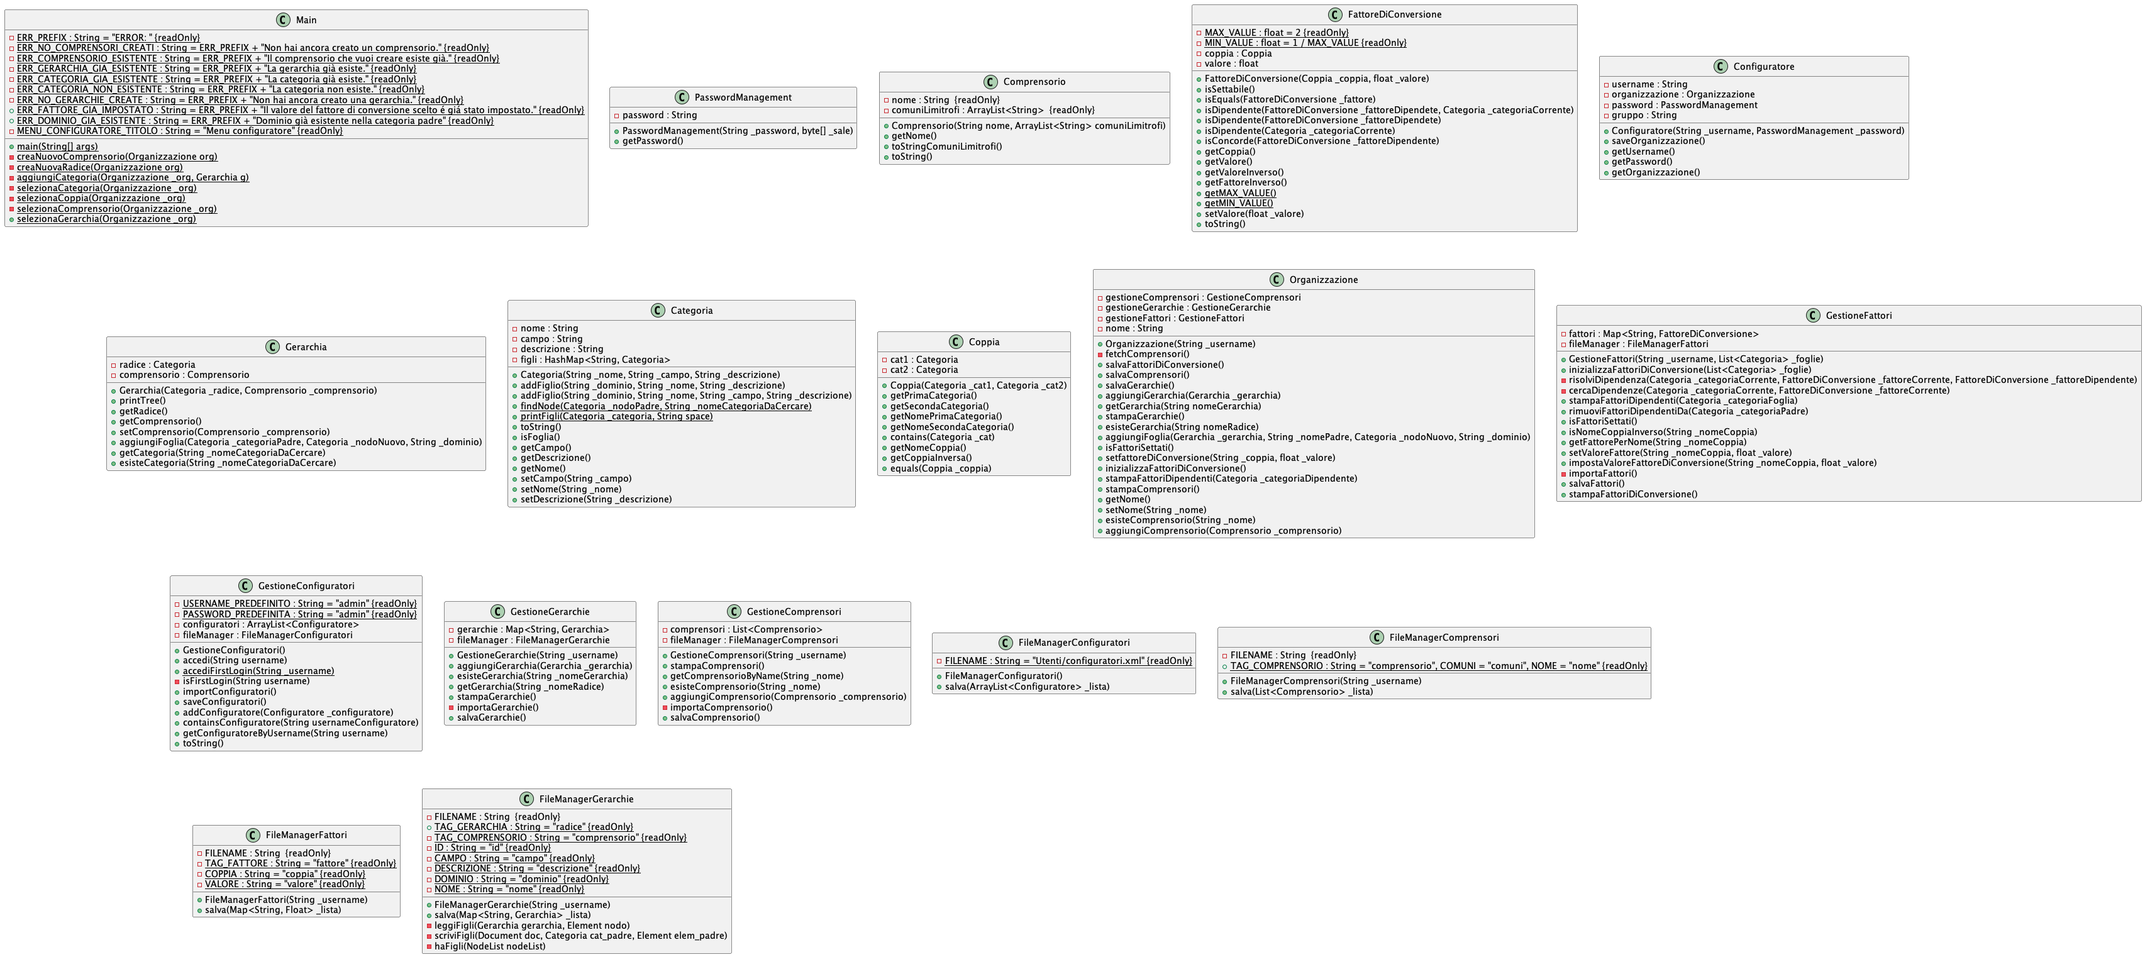
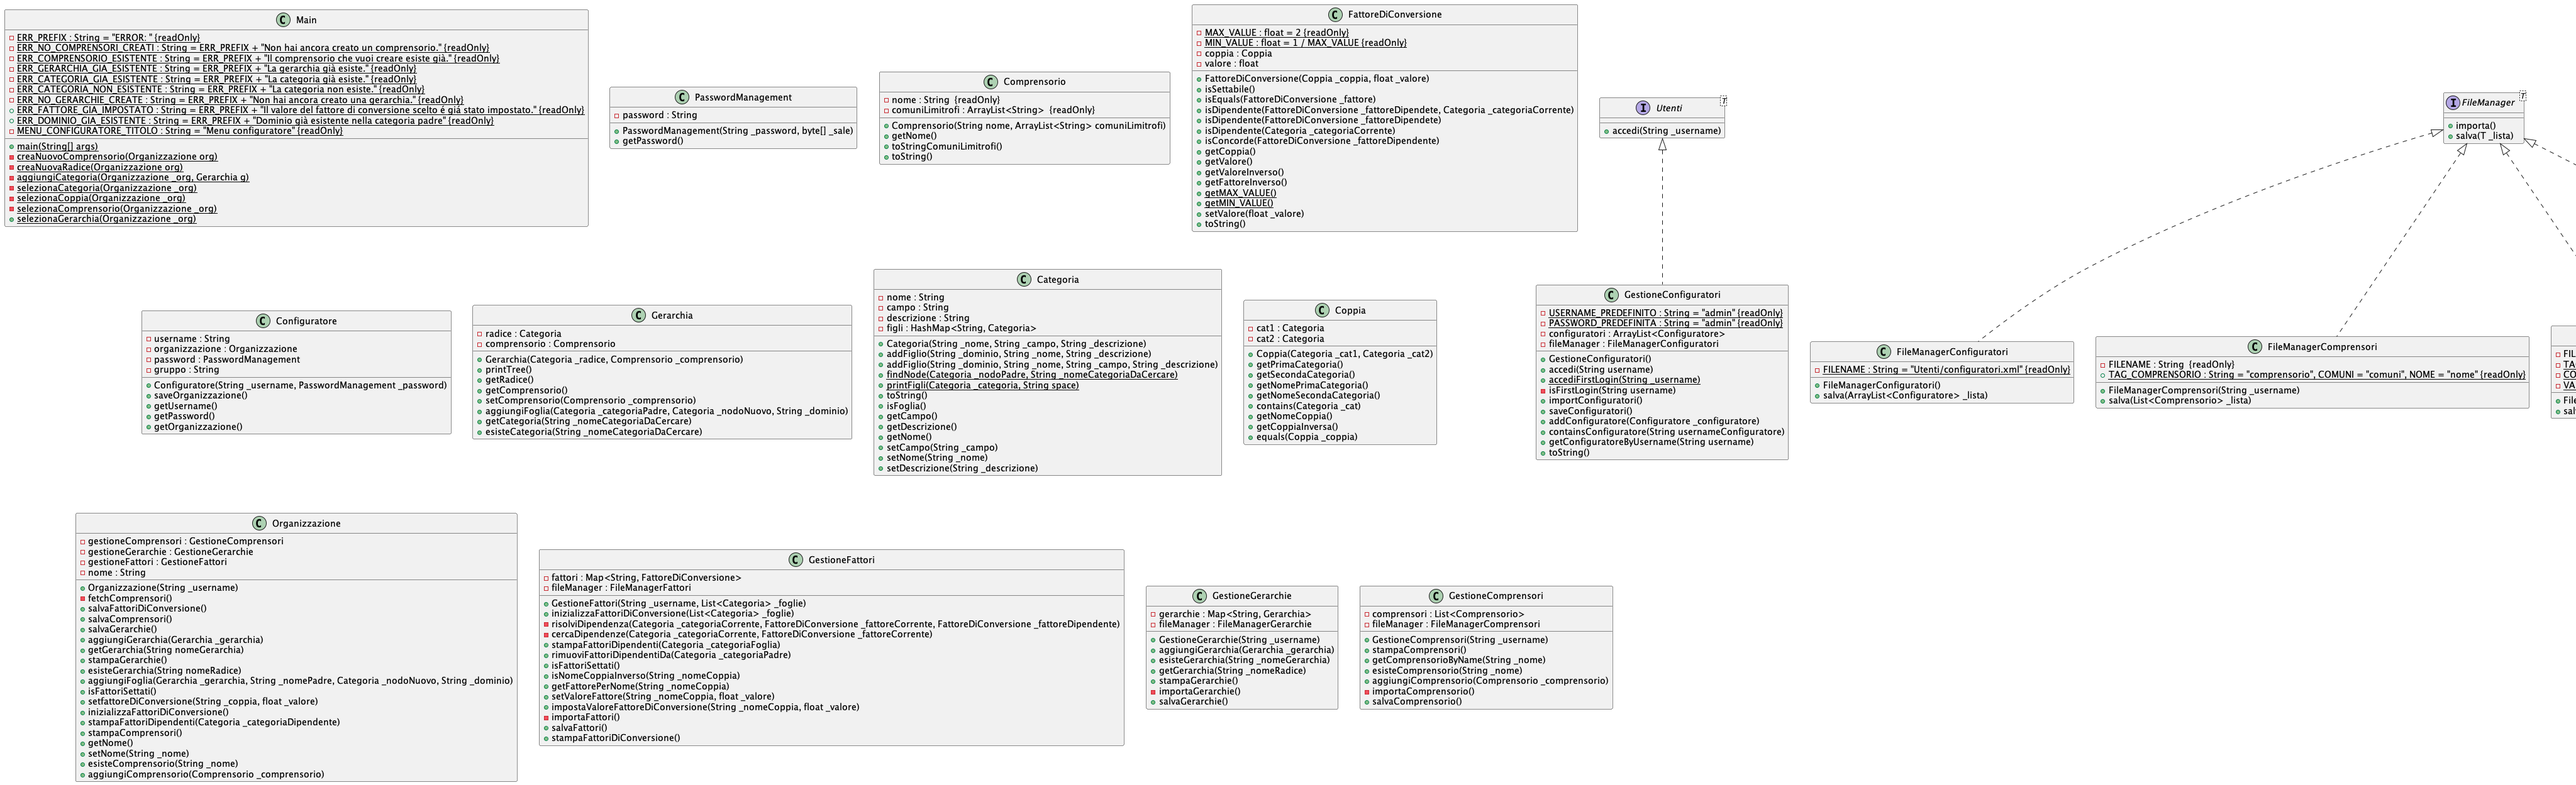
added interface

diff --git a/plantuml_generator.py b/plantuml_generator.py
@@ -4,7 +4,9 @@ import re, sys, os
 VISIBILITY_MODIFIER = {
     'public' : '+',
     'private' : '-',
-    'protected' : '#'
+    'protected' : '#',
+    'interface' : '+',
+    'default' : '~'
 }
 
 def print_help():
@@ -29,23 +31,28 @@ def parse_java_file(file_path):
         java_code = file.read()
 
     map_regex = '(?:\s*<\s*\w+\s*(?:,\s*\w+\s*)*>)'
+    class_type = ''
 
     # find class name and visibility
-    class_name_visibility = re.search(r'(public|private|protected)?\s*class\s+(\w+)', java_code)
-    if class_name_visibility:
-        name = []
+    class_name_visibility = re.search(r'(public|private|protected)?\s*(class|interface)\s+(.*?)\s*{', java_code)
+    print('TIPO')
+    print(class_name_visibility.group(3))
+    name = []
+    if class_name_visibility is not None:
         class_visibility = class_name_visibility.group(1)
-        class_name = class_name_visibility.group(2)
-        name = [{"visibility" : VISIBILITY_MODIFIER[class_visibility], "name" : class_name}]
+        class_type = class_name_visibility.group(2)
+        class_name = class_name_visibility.group(3)
+        name = [{"visibility" : VISIBILITY_MODIFIER[class_visibility], "type" : class_type, "name" : class_name}]
     else:
-        print("No classes found in " + file_path)
+        print("No classes/interfaces found in " + file_path)
         return
 
     # finds attributes
-    #attributes = re.findall(r'(public|private|protected)\s*(static)?\s*(final)?\s+(\w+' + map_regex + r'?)\s+(\w+);', java_code)
+    attributes_list = []
     attributes = re.findall(r'(public|private|protected)\s*(static)?\s*(final)?\s+(\w+' + map_regex + r'?)\s+(\w+)(?:\s*=\s*)?(.*?)?;', java_code)
+    print('ATTRIBUTES')
+    print(attributes)
     if attributes:
-        attributes_list = []
         for attr in attributes:
             if len(attr) >= 3:
                 visibility, static, final, data_type, attr_name, value = attr
@@ -55,21 +62,39 @@ def parse_java_file(file_path):
                     )
 
     methods_list = []
-    #find constructors
-    methods = re.findall(r'(public)\s+(\w+)\s*\((.*?)\)', java_code)
-    if methods:
-        visibility, method_name, parameters = methods[0]
-        methods_list.append(
-            {"visibility" : VISIBILITY_MODIFIER[visibility], "return_type" : "constructor", "name" : method_name, "parameters" : parameters}
-        )
-    # find methods
-    methods = re.findall(r'(public|private|protected)\s*(static)?\s+(\w+)\s+(\w+)\s*\((.*?)\)', java_code)
-    if methods:
-        for method in methods:
-            # if len(method) == 4:
-            #print(method)
-            visibility, static, return_type, method_name, parameters = method
-            if return_type != 'new':
+    if class_type == 'class':
+        #find constructors
+        methods = re.findall(r'(public)\s+(\w+)\s*\((.*?)\)', java_code)
+        if methods:
+            visibility, method_name, parameters = methods[0]
+            methods_list.append(
+                {"visibility" : VISIBILITY_MODIFIER[visibility], "return_type" : "constructor", "name" : method_name, "parameters" : parameters}
+            )
+        # find methods
+        methods = re.findall(r'(public|private|protected)\s*(static)?\s+(\w+)\s+(\w+)\s*\((.*?)\)', java_code)
+        print('METHODS')
+        print(methods)
+        if methods:
+            for method in methods:
+                visibility, static, return_type, method_name, parameters = method
+                if return_type != 'new' and visibility != '':
+                    methods_list.append(
+                        {"visibility" : VISIBILITY_MODIFIER[visibility], "static" : static, "return_type" : return_type, "name" : method_name, "parameters" : parameters}
+                    )
+
+    # find methods interface
+    if class_type == 'interface':
+        methods = re.findall(r'(public|private|protected)?\s*(static)?\s+(\w+)\s+(\w+)\s*\((.*?)\)', java_code)
+        print('METHODS')
+        print(methods)
+        if methods:
+            for method in methods:
+                visibility, static, return_type, method_name, parameters = method
+                print('VISIBILITY')
+                print(visibility)
+                if not visibility:
+                    visibility = 'interface'
+                
                 methods_list.append(
                     {"visibility" : VISIBILITY_MODIFIER[visibility], "static" : static, "return_type" : return_type, "name" : method_name, "parameters" : parameters}
                 )

diff --git a/java_class.py b/java_class.py
@@ -5,18 +5,18 @@ class java_class:
         self.methods = methods
 
     def __str__(self):
-        class_name_str = "\n".join([f"visibility={name['visibility']} name={name['name']}" for name in self.name])
+        class_name_str = "\n".join([f"visibility={name['visibility']} type={name['type']} name={name['name']}" for name in self.name])
         attributes_str = "\n".join([f"visibility={attr['visibility']} static={attr['static']} final={attr['final']} data_type={attr['data_type']} name={attr['name']}" for attr in self.attributes])
         methods_str = "\n".join([f"visibility={method['visibility']} static={method['static']} return_type={method['return_type']} name={method['name']}(p={method['parameters']})" for method in self.methods])
 
         return f"Class: {class_name_str}\nAttributes:\n{attributes_str}\nMethods:\n{methods_str}"
     
     def toPlantUML(self, attribute_comments, method_comments):
-        class_name = "class " + ''.join([f"{name['name']}" for name in self.name]) + '{'
+        class_name = "".join([f"{name['type']} {name['name']}" for name in self.name]) + '{'
         attribute_comments = "\n\t'" + attribute_comments
         attributes = "".join([f"\n\t {attr['visibility']} {'{static}' if 'static' in attr and attr['static'] else ''} {attr['name']} : {attr['data_type']} {'= ' + attr['var_value'] if 'var_value' in attr and attr['var_value'] else ''} {'{readOnly}' if 'final' in attr and attr['final'] else ''}" for attr in self.attributes])
         method_comments = "\n\t'" + method_comments
         methods = "".join([f"\n\t {method['visibility']} {'{static}' if 'static' in method and method['static'] else ''} {method['name']}({method['parameters']})" for method in self.methods])
         close_bracket = "\n}\n"
 
-        return f"{class_name} {attribute_comments} {attributes} {method_comments} {methods} {close_bracket}"
+        return f"{class_name} {attributes} {methods} {close_bracket}"
